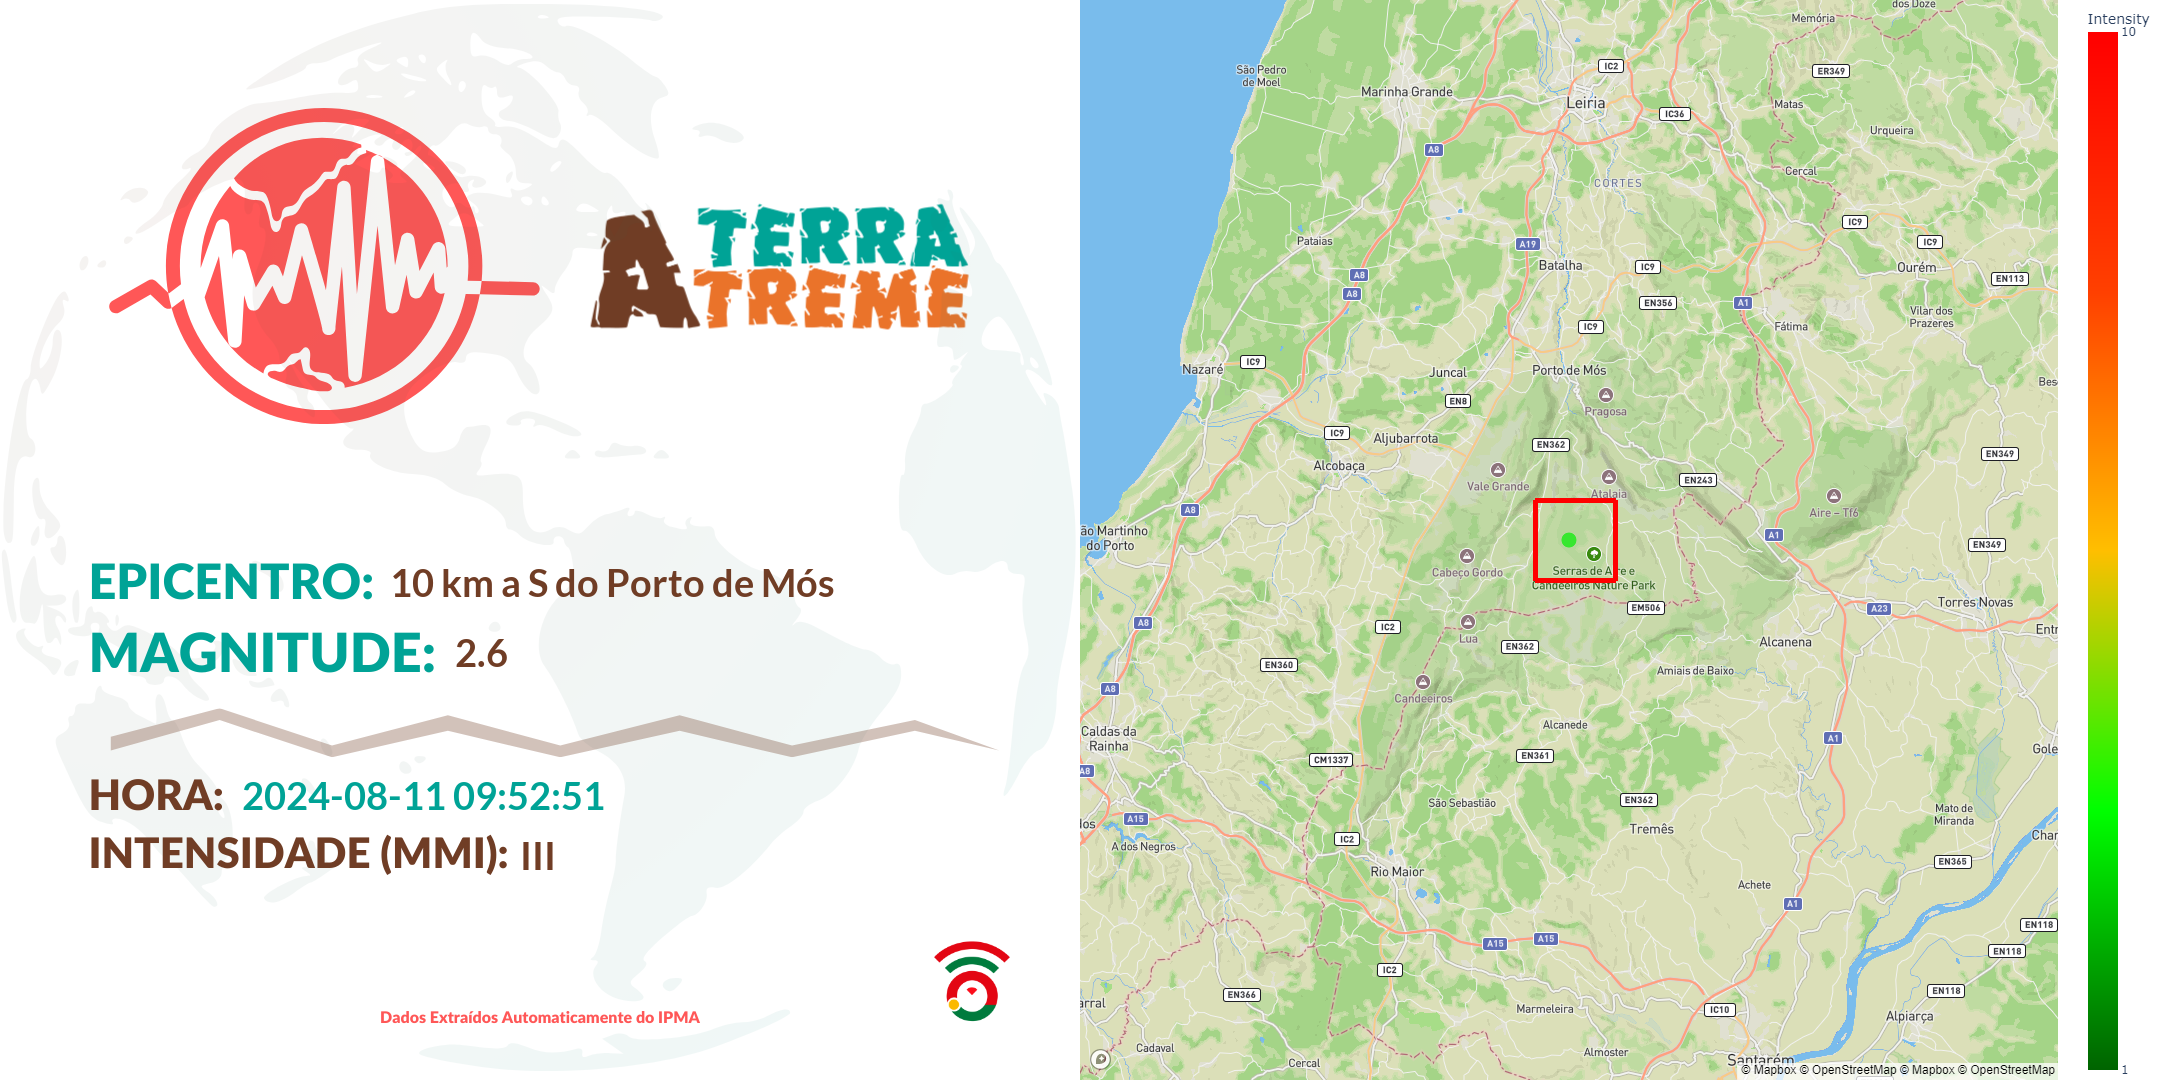
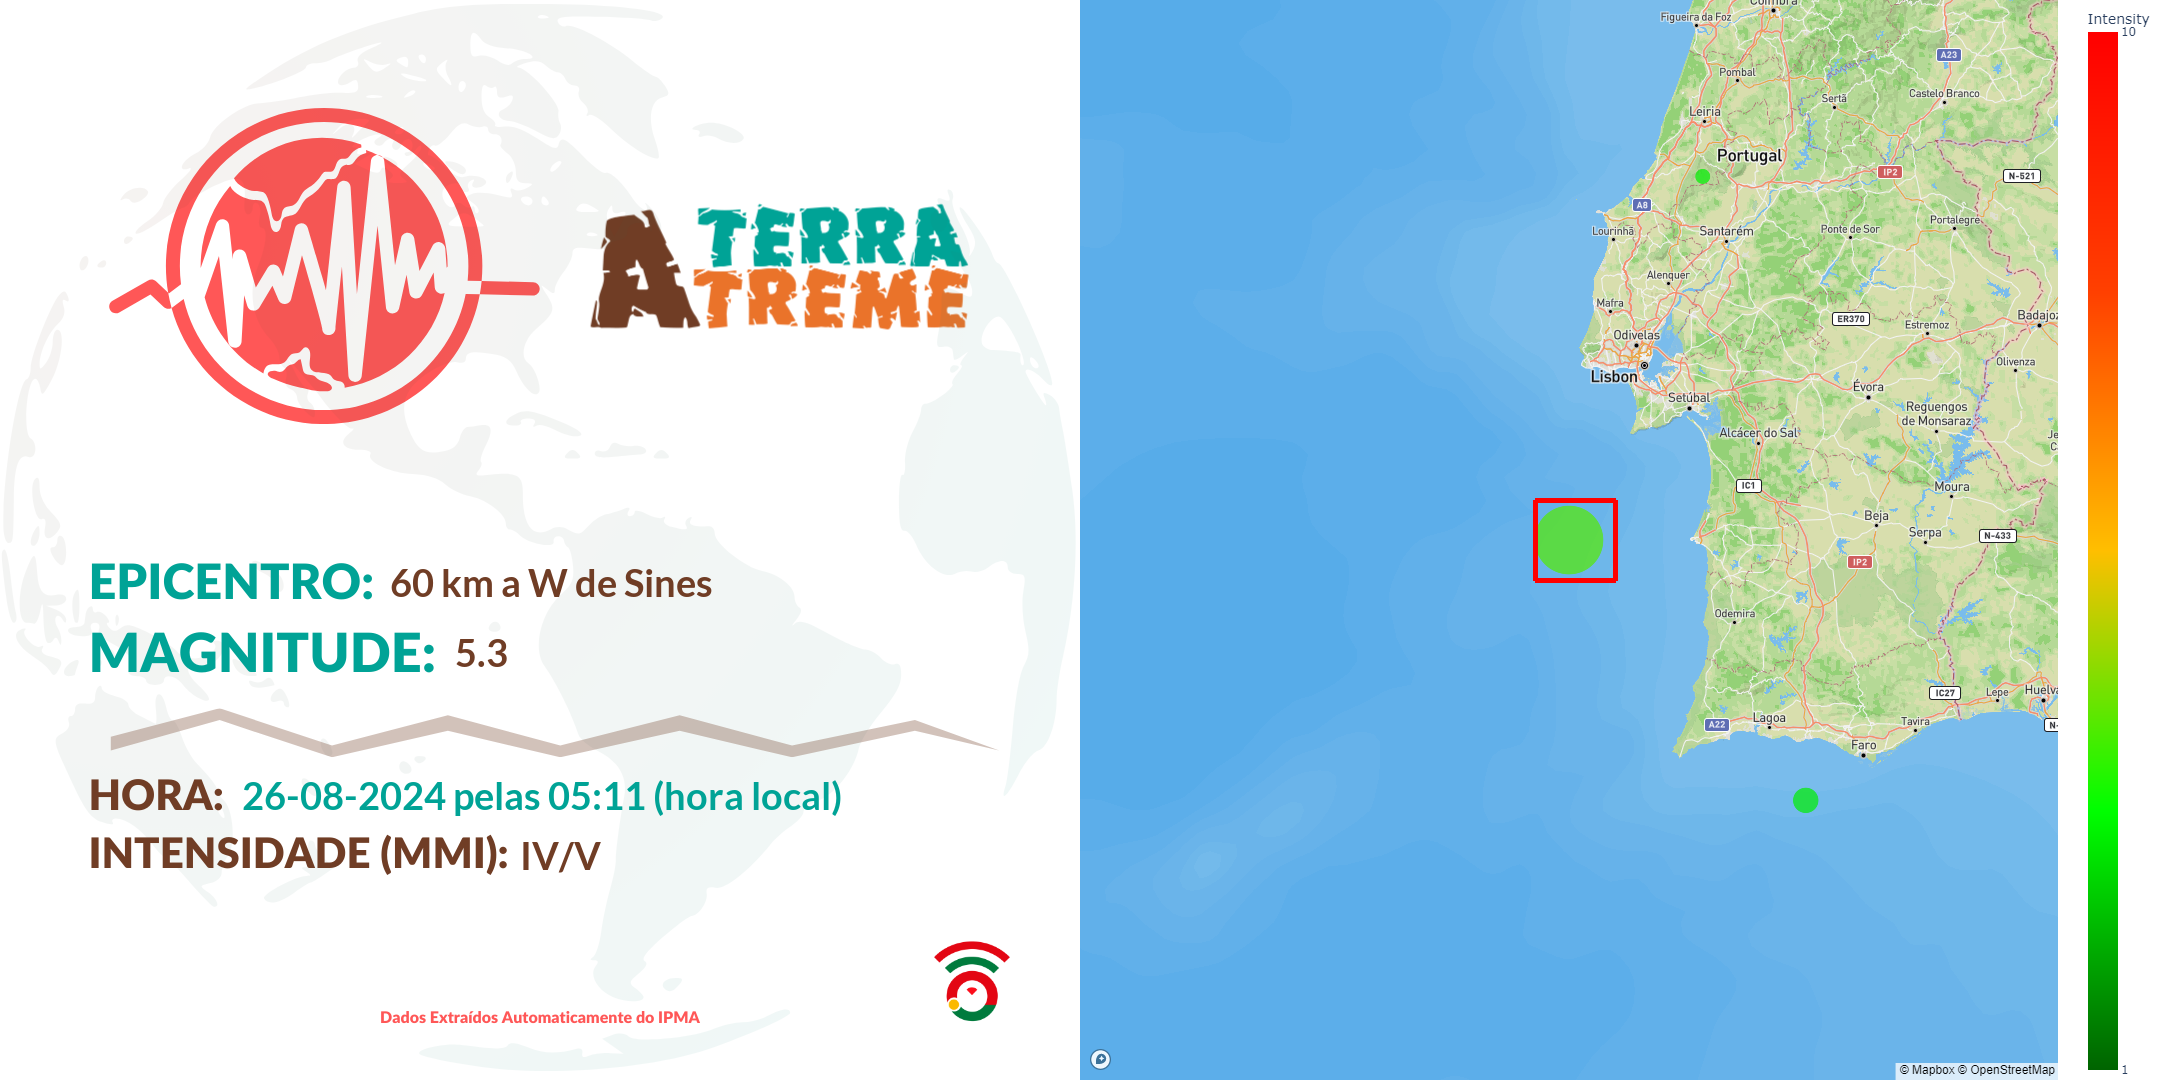
zoom and date update

diff --git a/create_image.py b/create_image.py
@@ -102,7 +102,7 @@ def create_map_image(df):
             mapbox=dict(
                 style="mapbox://styles/mapbox/outdoors-v12",  # Check if this is valid
                 center=dict(lat=df['latitude'].iloc[-1], lon=df['longitude'].iloc[-1]),  # Center the map
-                zoom=10  # Zoom level
+                zoom=7  # Zoom level
             ),
             margin=dict(r=0, t=0, l=0, b=0)  # Remove margins
         )
@@ -201,7 +201,7 @@ if __name__ == "__main__":
             overlay_text(img, scale_text, (455, 629), font, "#703D25")
 
             # Overlay the date_time information on the image
-            date_time_text = latest_data['pub_date']
+            date_time_text = latest_data['date']
             overlay_text(img, date_time_text, (242, 772), font, "#00A396")
 
             # Overlay the intensity information on the image
